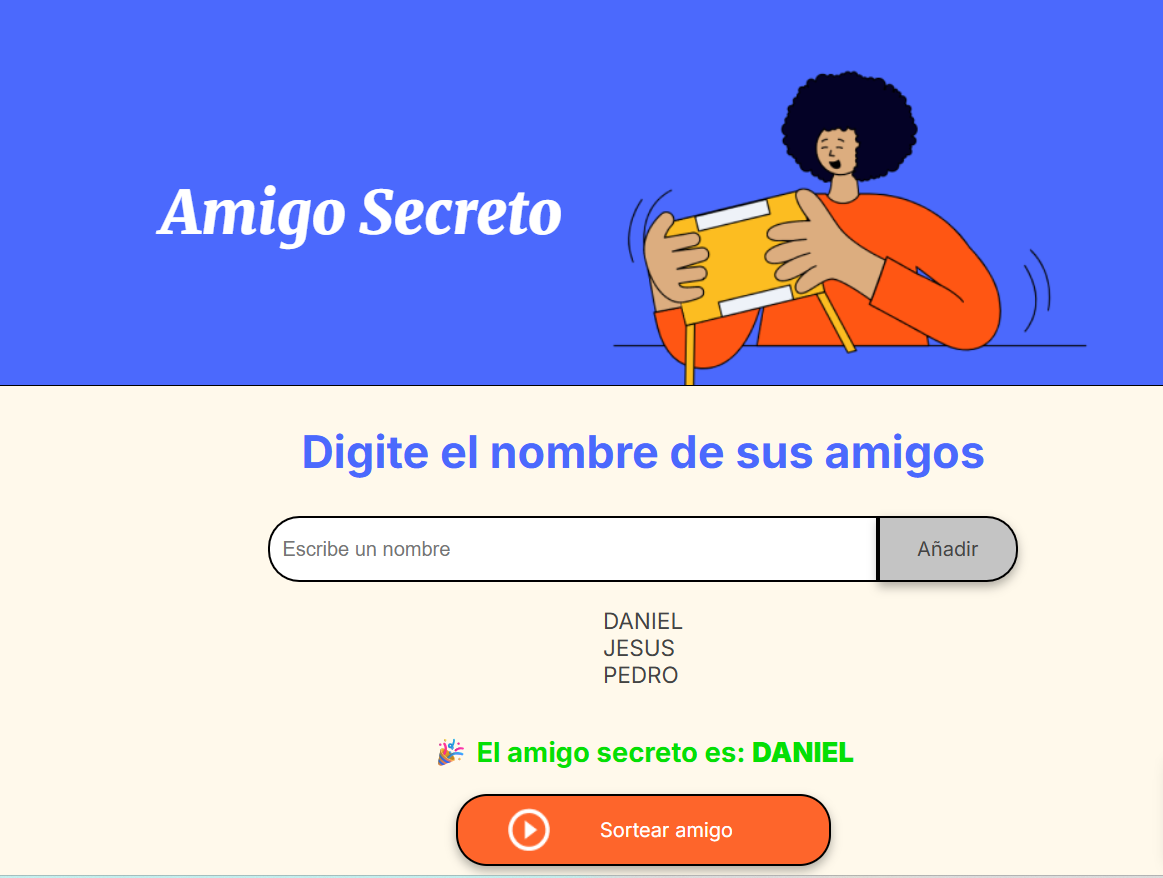
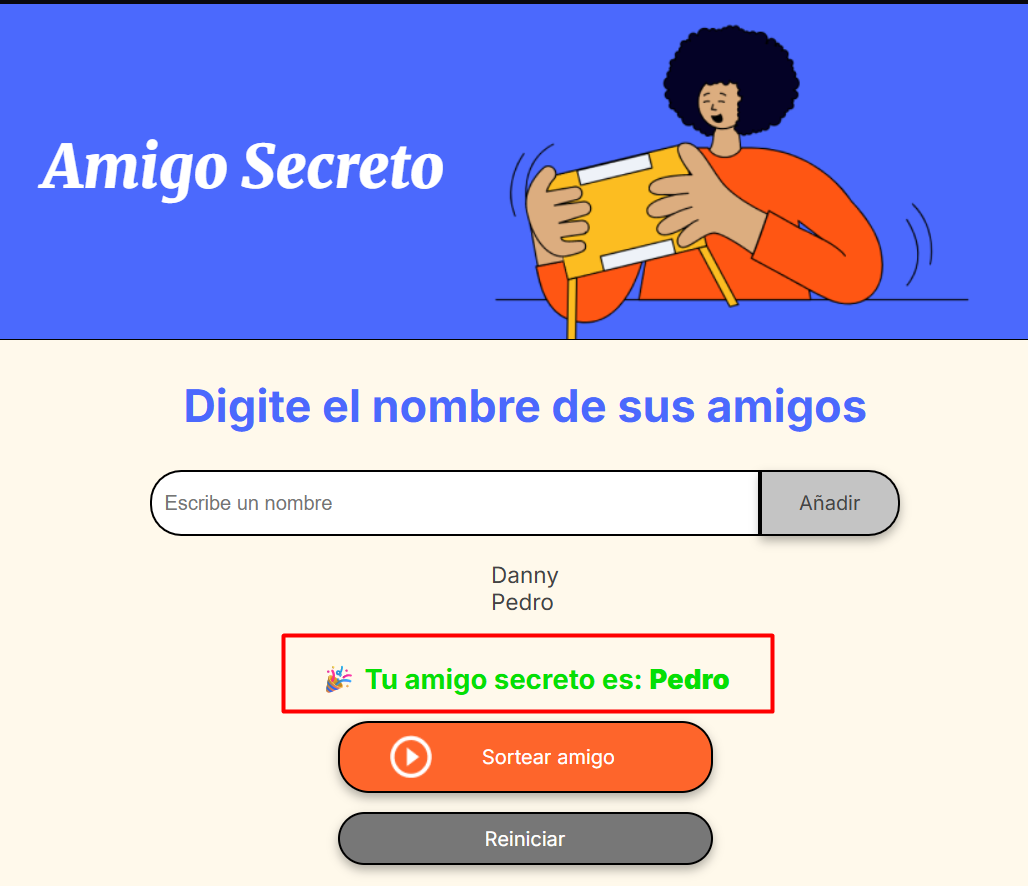
Actualización: funciones corregidas y botón reiniciar agregado

Changed region(s): [[0.0, 0.0, 1.0, 0.6765], [0.0, 0.6458, 1.0, 1.0]]

diff --git a/app.js b/app.js
@@ -1,61 +1,65 @@
-// Array vacío donde se guardarán los nombres
 let amigos = [];
 
-// Función para agregar un amigo
+// Agregar amigo
 function agregarAmigo() {
-    // 1. Capturar el valor del input
-    let input = document.getElementById("amigo"); 
-    let nombre = input.value.trim(); // .trim() elimina espacios en blanco
+    const input = document.getElementById("amigo");
+    const nombre = input.value.trim();
+    const botonReiniciar = document.getElementById("reiniciar");
 
-    // 2. Validar la entrada
     if (nombre === "") {
-        alert("Por favor, inserte un nombre.");
-        return; // salir de la función si está vacío
-    }
-
-    // 3. Agregar al array
-    amigos.push(nombre);
-
-    // 4. Limpiar el campo de entrada
-    input.value = "";
-
-    // 5. Actualizar la lista en pantalla
-    actualizarLista();
-}
-
-// Función para mostrar los amigos en la lista HTML
-function actualizarLista() {
-    // 1. Obtener el elemento de la lista en el HTML
-    let lista = document.getElementById("listaAmigos");
-
-    // 2. Limpiar el contenido previo para evitar duplicados
-    lista.innerHTML = "";
-
-    // 3. Recorrer el arreglo de amigos
-    for (let i = 0; i < amigos.length; i++) {
-        // 4. Crear un nuevo elemento <li>
-        let item = document.createElement("li");
-        item.textContent = amigos[i];
-
-        // 5. Agregar el <li> a la lista
-        lista.appendChild(item);
-    }
-}
-function sortearAmigo() {
-    // 1. Validar que haya amigos en la lista
-    if (amigos.length === 0) {
-        alert("No hay amigos en la lista para sortear.");
+        alert("Por favor escribe un nombre válido.");
         return;
     }
 
-    // 2. Generar un índice aleatorio
-    let indiceAleatorio = Math.floor(Math.random() * amigos.length);
+    if (amigos.includes(nombre)) {
+        alert("Ese nombre ya está en la lista.");
+        input.value = "";
+        return;
+    }
 
-    // 3. Obtener el nombre sorteado
-    let amigoSorteado = amigos[indiceAleatorio];
+    amigos.push(nombre);
+    input.value = "";
+ 
+     // Llamar a la función que actualiza la lista
+    actualizarLista();
 
-    // 4. Mostrar el resultado en el HTML
-    let resultado = document.getElementById("resultado");
-    resultado.innerHTML = `<li>🎉 El amigo secreto es: <strong>${amigoSorteado}</strong></li>`;
+    botonReiniciar.disabled = false; // activar botón reiniciar
+ }
+
+ // Actualizar lista en pantalla
+function actualizarLista() {
+    const lista = document.getElementById("listaAmigos");
+    lista.innerHTML = ""; // limpiar lista antes de volver a pintarla
+
+for (let i = 0; i < amigos.length; i++) {
+    const li = document.createElement("li");
+    li.textContent = amigos[i];
+    lista.appendChild(li);
 }
 
+// limpiar resultado si se cambia la lista
+    document.getElementById("resultado").innerHTML = "";
+}
+
+// Sortear amigo
+function sortearAmigo() {
+    const resultado = document.getElementById("resultado");
+
+    if (amigos.length < 2) {
+        alert("Agrega al menos dos amigos para sortear.");
+        return;
+    }
+
+    const indice = Math.floor(Math.random() * amigos.length);
+    const amigoSecreto = amigos[indice];
+
+    resultado.innerHTML = `<li>🎉 Tu amigo secreto es: <strong>${amigoSecreto}</strong></li>`;
+}
+
+// Reiniciar juego
+function reiniciarJuego() {
+    amigos = [];
+    document.getElementById("listaAmigos").innerHTML = "";
+    document.getElementById("resultado").innerHTML = "";
+    document.getElementById("reiniciar").disabled = true;
+}

diff --git a/index.html b/index.html
@@ -28,9 +28,15 @@
             <ul id="resultado" class="result-list" aria-live="polite"></ul>
 
             <div class="button-container">
+                <!-- Botón sortear -->
                 <button class="button-draw" onclick="sortearAmigo()" aria-label="Sortear amigo secreto">
                     <img src="assets/play_circle_outline.png" alt="Ícono para sortear">
                     Sortear amigo
+                </button>
+
+                <!-- Botón reiniciar -->
+                <button id="reiniciar" class="button-restart" onclick="reiniciarJuego()" disabled>
+                    Reiniciar
                 </button>
             </div>
         </section>

diff --git a/style.css b/style.css
@@ -160,3 +160,28 @@ ul {
 .button-draw:hover {
     background-color: var(--color-button-hover);
 }
+/* Botón eliminar (❌) al lado de cada amigo */
+.delete-btn {
+    margin-left: 10px;
+    background: transparent;
+    border: none;
+    cursor: pointer;
+    color: red;
+    font-size: 1.2rem;
+    transition: transform 0.2s ease;
+}
+.delete-btn:hover {
+    transform: scale(1.2);
+}
+
+/* Botón de reinicio */
+.button-restart {
+    margin-top: 15px;
+    background-color: #777;
+    color: var(--color-white);
+    width: 100%;
+    padding: 10px 40px;
+}
+.button-restart:hover {
+    background-color: #555;
+}

diff --git a/README.md b/README.md
@@ -11,7 +11,7 @@ Lo hice con **HTML, CSS y JavaScript** para practicar lógica de programación.
 - Ver los nombres en pantalla.
 - Sortear un amigo al azar.
 - Mostrar el resultado en la página.
-
+- Reiniciar 
 ---
 
 ## 🚀 Cómo usar
@@ -26,14 +26,14 @@ Abre el archivo `index.html` en tu navegador.
 ### 2⃣ Escribir nombres y añadir
 Escribe los nombres y dale al botón **Añadir**.  
 
-![Añadir nombres](assets/AÑADIR-NOMBRE.png)
+![Añadir nombres](assets/PONER-NOMBRE.png)
 
 ---
 
 ### 3⃣ Sortear
 Cuando tengas varios nombres, haz clic en **Sortear amigo**.  
 
-![Sortear amigo](assets/DAR-CLICK-SORTEAR.png)
+![Sortear amigo](assets/SORTEAR-AMIGO.png)
 
 ---
 
@@ -41,6 +41,10 @@ Cuando tengas varios nombres, haz clic en **Sortear amigo**.
 ¡Listo! Aparecerá el amigo secreto elegido.  
 
 ![Resultado sorteo](assets/CHALLENGE.png)
+
+### 4⃣ Reiniciar
+Si quieres volver a jugar le das click en **Reiniciar**.  
+![Reiniciar](assets/REINICIAR.png)
 
 ---
 
